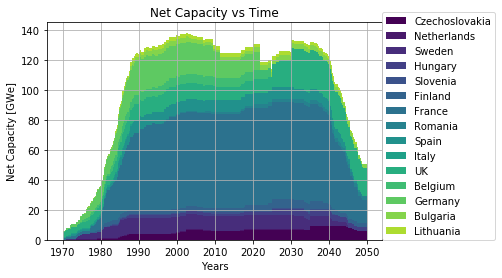
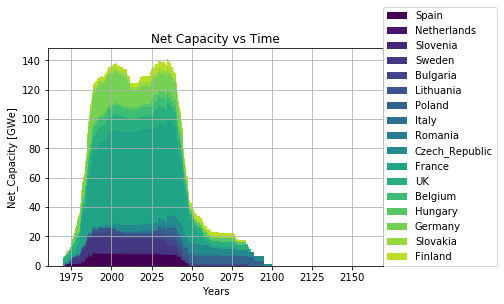
onesim changes power plot

diff --git a/results.tex b/results.tex
@@ -1,30 +1,27 @@
 \section{Results}
 
-\subsection{Historical Operation of \gls{EU} Reactors}
+\subsection{\gls{UNF} and tails inventory in the \gls{EU}}
 
-\Cref{tab:sim_result} lists  \gls{EU} inventory and
-history at year 2050, and the used \gls{UOX} will be
-reprocessed.
+\Cref{tab:sim_result1} lists \gls{EU} material inventory and
+at the end of the simulation.
 
 \begin{table}[h]
 	\centering
 %	\scalebox{0.86}{
 		\begin{tabular}{cccc}
 			\hline
-			\textbf{Category} & \textbf{Unit} & \textbf{Value} & \textbf{Specifics}\\ 
-			\hline
-			Total UOX Usage & MTHM & 163,826 &  \\ 
-			Total MOX Usage & MTHM & 6,560 & \\ 
-			Total Used UOX Stored & MTHM & 125,453 & \gls{UNF} that is not reprocessed\\ 
-			Total Used  MOX Stored & MTHM & 3,438 & \gls{UNF} that is not reprocessed \\ 
-			Total Tailings & MTHM & 975,938 & \\ 
-			Total Natural U Used & MTHM & 1,146,420 & \\ \hline
+			\textbf{Category } & \textbf{Value} & \textbf{Unit} & \textbf{Specifics}\\ \hline
+			Total UOX Usage  & 176,600 & MTHM &  \\ 
+			Total MOX Usage  & 6,953 & MTHM & \\ 
+			\textcolor{red}{Total Used UOX Stored}  & 110,013 & MTHM & \gls{UNF} that is not reprocessed\\
+			\textcolor{red}{Total Used UOX Stored (France)} & 12,943 & MTHM & \gls{UNF} that is not reprocessed \\
+			Total Tails  & 1,059,210 & MTHM & \\ 
+			Total Natural U Used  & 1,235,810 & MTHM & \\ \hline
 		\end{tabular}
 		\caption{Listed are the metrics from the historical nuclear operation of \gls{EU} nations.
 				 The difference between total \gls{UOX} usage and \gls{UOX} stored is the amount
-				 that has been reprocessed for \gls{MOX}. Only the stored \gls{UOX} is used in the 
-				 second simulation.}
-		\label{tab:sim_result}
+				 that has been reprocessed for \gls{MOX}. Only the stored \gls{UOX} is used for \gls{ASTRID} fuel production.}
+		\label{tab:sim_result1}
 \end {table}
 \FloatBarrier
 
@@ -69,12 +66,12 @@ Figure \ref{fig:eu_fuel} shows the amount of fuel used in \gls{EU}.
 	\begin{tabular}{ccc}
 		\hline
 		\textbf{Isotope} & \textbf{Mass Fraction in Used Fuel [\%]} & \textbf{Quantity [t]} \\ \hline
-		Total & 0.9358 & 1,173 \\ \hline
-		Pu238 & 0.0111 & 13.9 \\ 
-		Pu239 & 0.518 & 649.8 \\ 
-		Pu240 & 0.232 & 291.05 \\ 
-		Pu241 & 0.126 & 158.07 \\ 
-		Pu242 & 0.0487 & 61.09 \\ \hline
+		Total & 0.9358 & 1,029 \\ \hline
+		Pu238 & 0.0111 & 12.2 \\ 
+		Pu239 & 0.518 & 569.8 \\ 
+		Pu240 & 0.232 & 255.2 \\ 
+		Pu241 & 0.126 & 138.6 \\ 
+		Pu242 & 0.0487 & 53.5 \\ \hline
 	\end{tabular}
 	\caption{Plutonium From \gls{UNF} Inventory. This table assumes no decay
 			 took place. The long half-life of the fissile Pu-239 (24,100 years)

diff --git a/scenario_specifications.tex b/scenario_specifications.tex
@@ -88,10 +88,11 @@ historical refueling outage. The specifications are defined in
                 Discharge Burnup [GWd/tHM] & 51 & 51 & 105 \\
                 Assemblies per core & 193  & 764 & -- \\
                 Batches per core & 3 & 3 & 4\\
+                Initial Fissile Loading & 3.1t U235 & 4.2t U235 & 4.9t Pu \\
                 Fuel & \gls{UOX} or \gls{MOX} & \gls{UOX} & \gls{MOX} \\
 		\hline
 	\end{tabularx}
-        \caption {Model \gls{LWR} and \gls{ASTRID} specifications used for the simluations are listed, and \glspl{LWR} are modified
+        \caption {Model \gls{LWR} and \gls{ASTRID} specifications used for the simulations are listed, and \glspl{LWR} are modified
         linearly for varying power capacity. }
 	\label{tab:reactor-specs}
 	\end{table}
